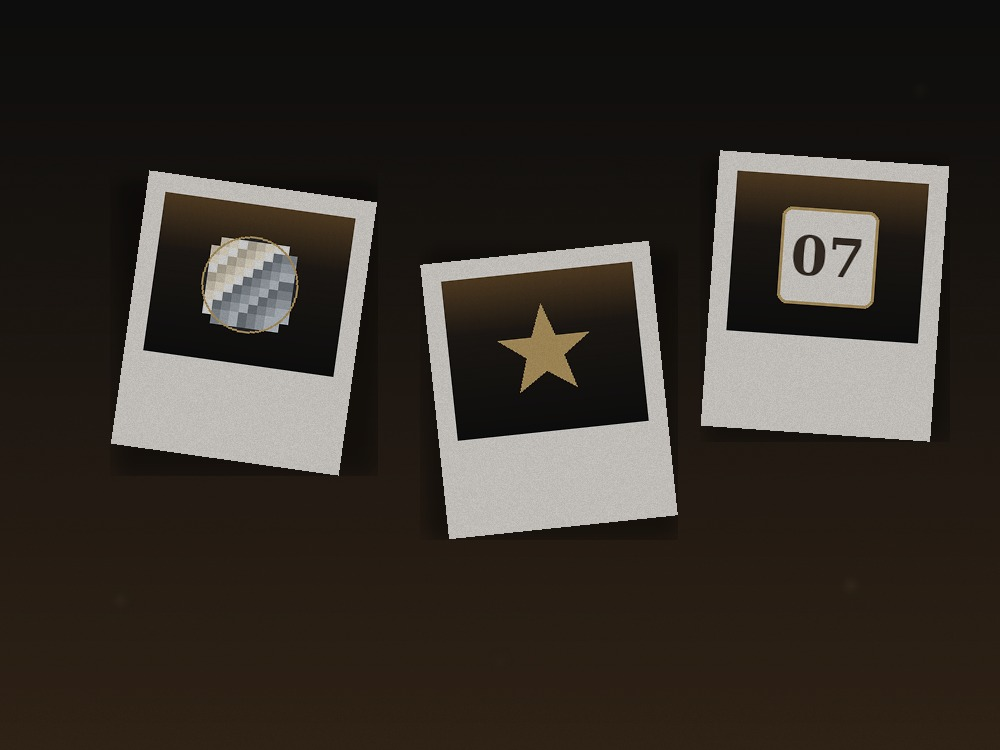
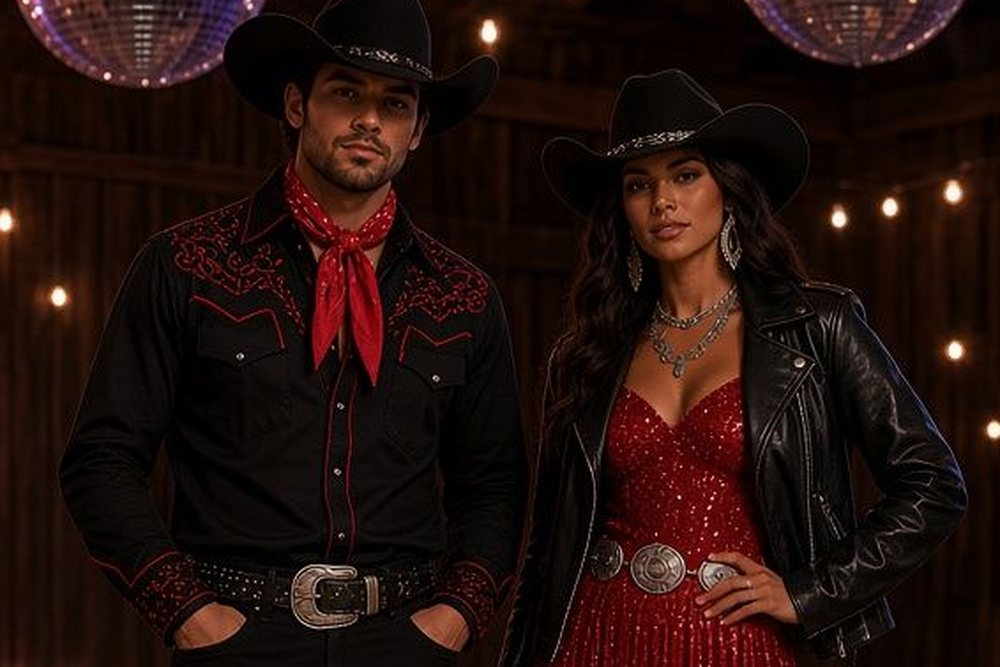
Replace the last two illustrated moment cards with photography (#16)
The Photo Booth and Party Highlights cards were still generated
illustrations sitting beside four real photos. Both now use crops from the
same reference sheets the lookbook came from, so the whole grid is
photographic.

- Photo Booth: upper bodies of the Red-Hot pair, which reads as a posed
  booth frame rather than a repeat of the full-figure look card.
- Party Highlights: mirror balls and string lights over the floor.

New scripts/crop-moment-photos.py holds the regions as fractions of each
sheet so they survive a resolution change. The highlights crop was first
taken across two panels and picked up the sheet's divider seams at the
edges; it is now kept inside a single panel (thirds fall at 0.333/0.667).

Both served as WebP with JPEG fallback, dimensions corrected to the real
1000x667, and alt text rewritten to describe the photographs rather than
the illustrations they replaced. Service worker cache v44.

Verified: 6/6 moment images load, all six resolving to WebP, no console
errors or failed requests.

https://claude.ai/code/session_01RQxgPetRB2BNnArUaiFyPr

diff --git a/index.html b/index.html
@@ -464,7 +464,10 @@
             </div>
           </a>
           <a class="moment-card" href="gallery.html">
-            <img class="moment-card__img editorial-img" src="/assets/editorial-photobooth.jpg" alt="Instant photos from the party photo booth" width="1000" height="750" loading="lazy">
+            <picture>
+              <source srcset="/assets/editorial-photobooth.webp" type="image/webp">
+              <img class="moment-card__img editorial-img" src="/assets/editorial-photobooth.jpg" alt="A couple posing in Red-Hot Honky-Tonk looks beneath the mirror balls" width="1000" height="667" loading="lazy">
+            </picture>
             <div class="moment-card__shade"></div>
             <div class="moment-card__content">
               <span class="moment-card__tag">Photos</span>
@@ -485,7 +488,10 @@
             </div>
           </a>
           <a class="moment-card" href="#party-night">
-            <img class="moment-card__img editorial-img" src="/assets/editorial-highlights.jpg" alt="Art-deco star and sunburst — the night's highlights" width="1200" height="900" loading="lazy">
+            <picture>
+              <source srcset="/assets/editorial-highlights.webp" type="image/webp">
+              <img class="moment-card__img editorial-img" src="/assets/editorial-highlights.jpg" alt="Guests in cream and turquoise western glamour under hanging mirror balls" width="1000" height="667" loading="lazy">
+            </picture>
             <div class="moment-card__shade"></div>
             <div class="moment-card__content">
               <span class="moment-card__tag">Experience</span>

diff --git a/sw.js b/sw.js
@@ -1,4 +1,4 @@
-const CACHE = "cdp-v43";
+const CACHE = "cdp-v44";
 const ASSETS = [
   "/",
   "/index.html",
@@ -18,7 +18,9 @@ const ASSETS = [
   "/assets/editorial-dance.jpg",
   "/assets/editorial-dance.webp",
   "/assets/editorial-photobooth.jpg",
+  "/assets/editorial-photobooth.webp",
   "/assets/editorial-highlights.jpg",
+  "/assets/editorial-highlights.webp",
   "/404.html",
   "/assets/cowboy-disco-party.ics",
   "/js/premium.js",

diff --git a/scripts/crop-moment-photos.py b/scripts/crop-moment-photos.py
@@ -1,0 +1,78 @@
+#!/usr/bin/env python3
+"""Cut the Social Moments card images from the reference lookbook sheets.
+
+Two moment cards previously used generated illustrations while the rest of
+the grid was photography. This crops real regions out of the same reference
+sheets the lookbook came from, so the whole grid is consistent.
+
+    python scripts/crop-moment-photos.py SHEET_A.jpg SHEET_B.jpg
+
+    SHEET_A — Denim Disco | Red-Hot Honky-Tonk | Outlaw Elegance
+    SHEET_B — Western Glam | Rustic Chic       | Honky Tonk
+
+Regions are expressed as fractions of each sheet so they survive a change in
+source resolution.
+"""
+
+from __future__ import annotations
+
+import argparse
+from pathlib import Path
+
+from PIL import Image
+
+ROOT = Path(__file__).resolve().parents[1]
+ASSETS = ROOT / "assets"
+
+OUT_W, OUT_H = 1000, 667          # 3:2, matches the other moment-card images
+JPEG_Q, WEBP_Q = 84, 80
+
+# stem -> (sheet index, left, top, right, bottom) as fractions
+REGIONS = {
+    # Upper bodies of the Red-Hot pair — reads as a posed photo-booth frame.
+    "editorial-photobooth": (0, 0.34, 0.045, 0.66, 0.42),
+    # Mirror balls and string lights over the floor. Kept inside one panel
+    # (sheet thirds fall at 0.333 / 0.667) so no panel divider seam shows.
+    "editorial-highlights": (1, 0.35, 0.00, 0.655, 0.46),
+}
+
+
+def cover(img: Image.Image, w: int, h: int) -> Image.Image:
+    src, dst = img.width / img.height, w / h
+    if src > dst:
+        new_w = int(img.height * dst)
+        left = (img.width - new_w) // 2
+        img = img.crop((left, 0, left + new_w, img.height))
+    else:
+        new_h = int(img.width / dst)
+        top = int((img.height - new_h) * 0.25)
+        img = img.crop((0, top, img.width, top + new_h))
+    return img.resize((w, h), Image.Resampling.LANCZOS)
+
+
+def main() -> None:
+    ap = argparse.ArgumentParser()
+    ap.add_argument("sheets", nargs=2, type=Path)
+    args = ap.parse_args()
+
+    sheets = []
+    for p in args.sheets:
+        if not p.exists():
+            raise SystemExit(f"missing: {p}")
+        sheets.append(Image.open(p).convert("RGB"))
+
+    for stem, (idx, l, t, r, b) in REGIONS.items():
+        img = sheets[idx]
+        W, H = img.size
+        region = img.crop((int(W * l), int(H * t), int(W * r), int(H * b)))
+        out = cover(region, OUT_W, OUT_H)
+
+        jpg = ASSETS / f"{stem}.jpg"
+        webp = ASSETS / f"{stem}.webp"
+        out.save(jpg, format="JPEG", quality=JPEG_Q, optimize=True, progressive=True)
+        out.save(webp, format="WEBP", quality=WEBP_Q, method=6)
+        print(f"{stem:24} {jpg.stat().st_size // 1024:3} KB + {webp.stat().st_size // 1024:3} KB webp")
+
+
+if __name__ == "__main__":
+    main()
